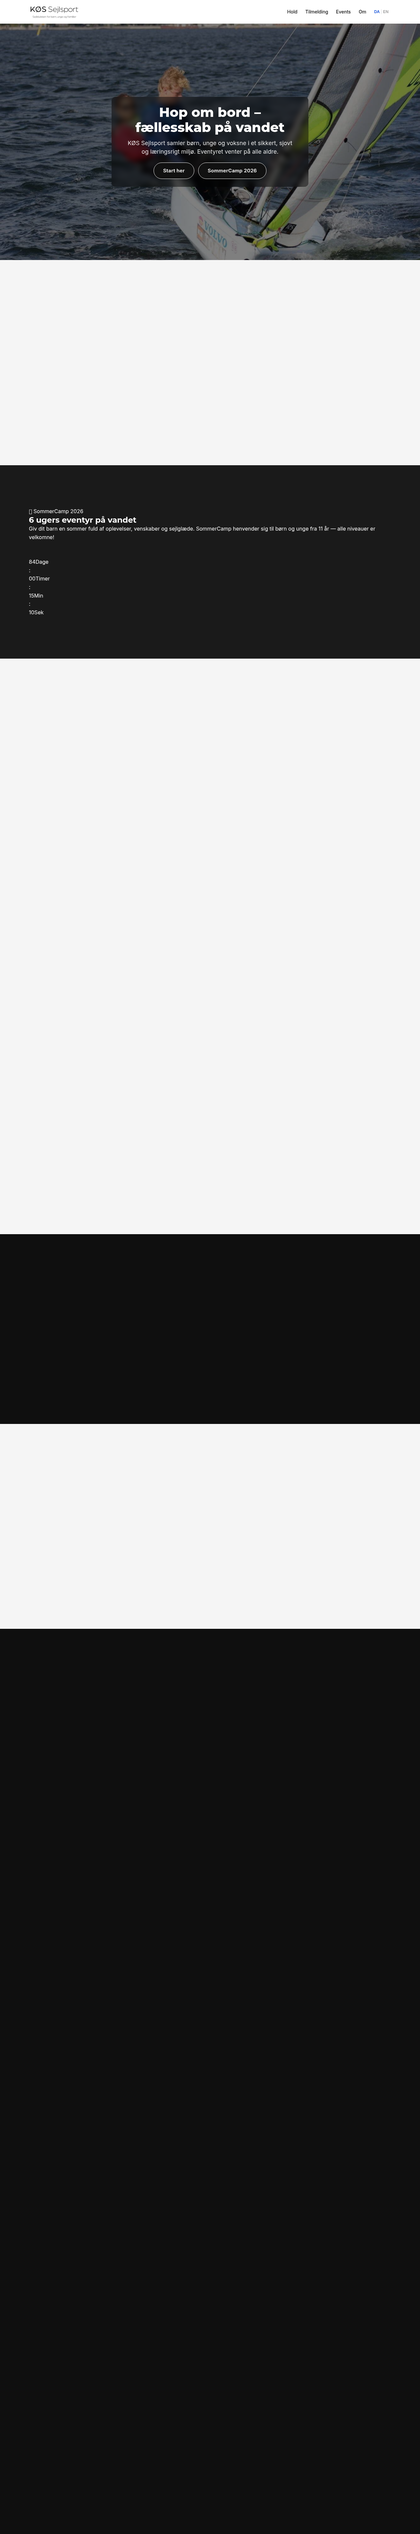
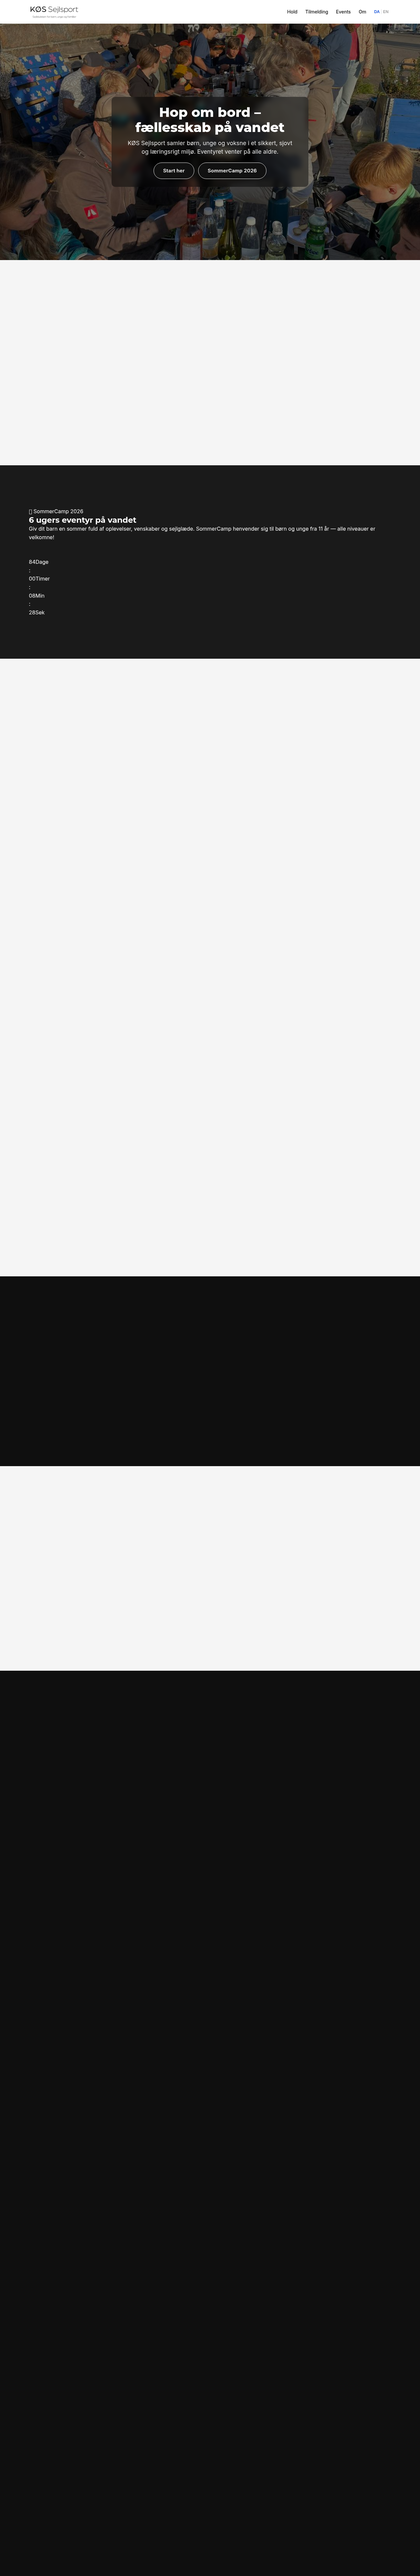
Update Begynder and Fortsætter hold card images

diff --git a/src/router.ts b/src/router.ts
@@ -41,8 +41,8 @@ addRoute('/galleri', renderGalleryPage)
 function getHoldCardImage(folder: string): string {
   const imageMap: Record<string, string> = {
     'mini-sejler': '580503850_1138151188302354_413008472373367144_n.jpg',
-    'begynder': '547367784_1091568366293970_682452581349231292_n.jpg',
-    'provetimer': '503749745_1020859290031545_4291591768803806385_n.jpg',
+    'begynder': '591697516_1154016806715792_2862262999162887056_n.jpg',
+    'provetimer': '496205293_1011788924271915_5737802054615581617_n.jpg',
     'undervisning': '493010834_987538240030317_4017353076541010794_n.jpg',
     'adventure': '491260195_986693496781458_5011001040969895543_n.jpg',
     'j70': '547784091_1093273136123493_1554396093967990186_n.jpg',
